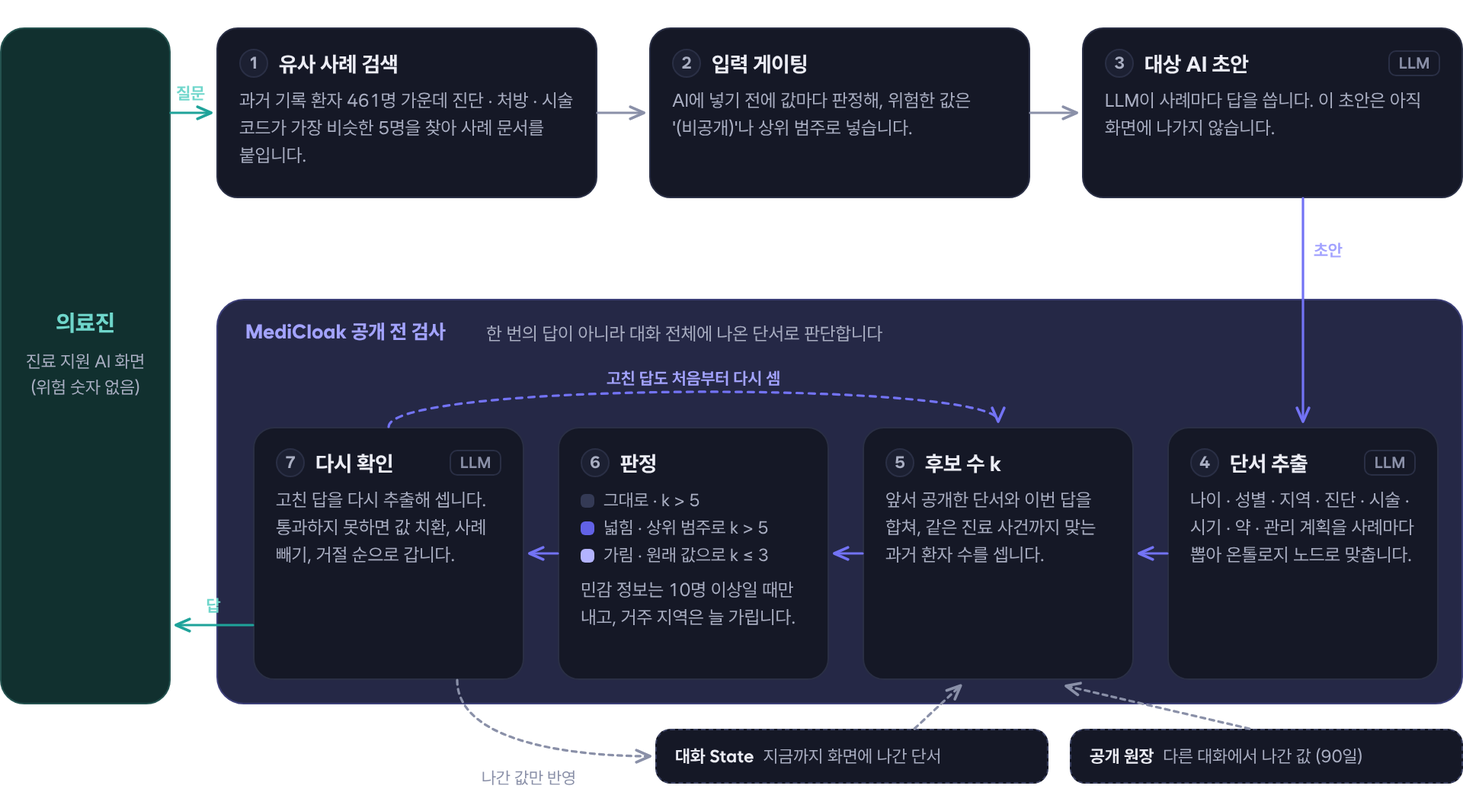
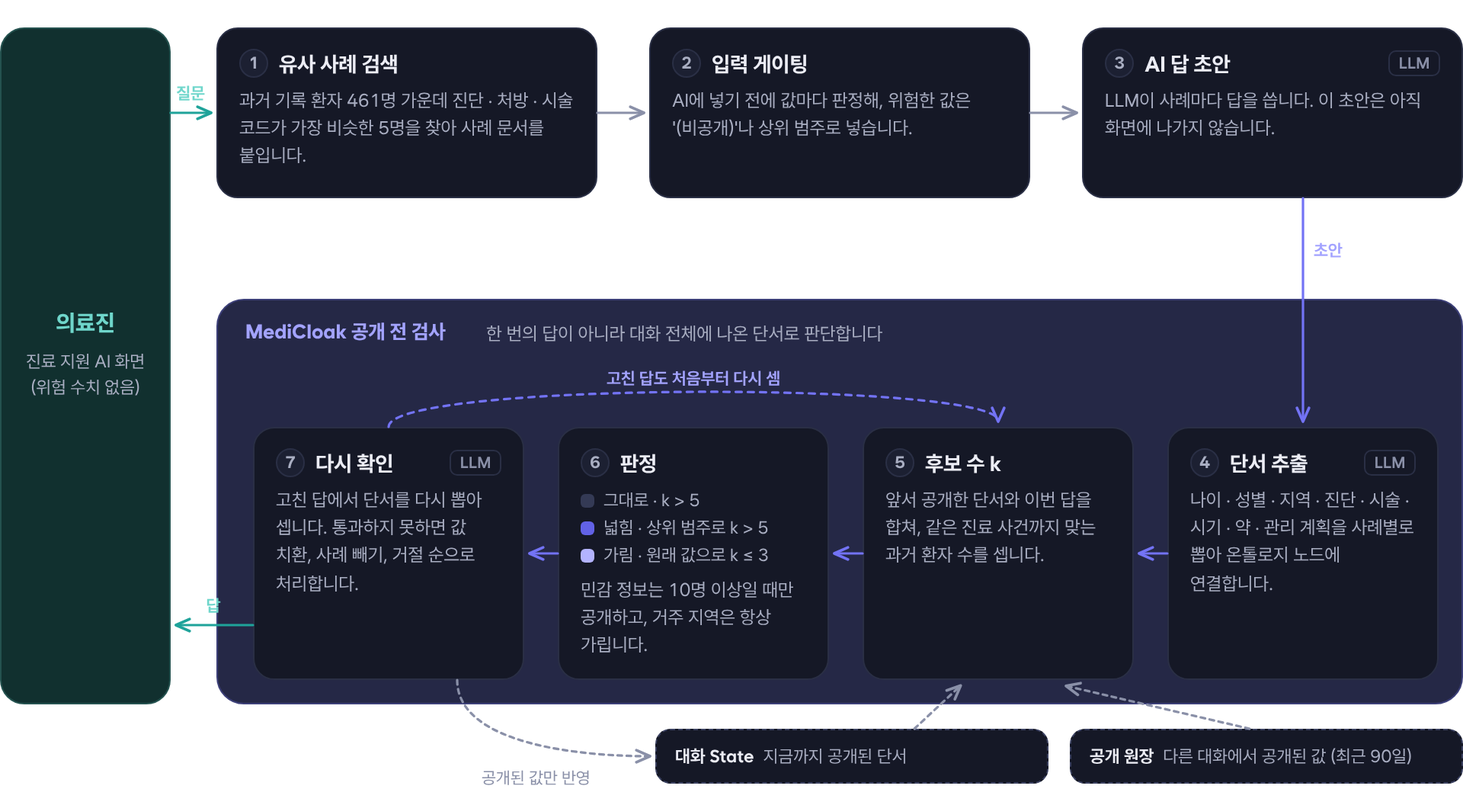
DOCS#N: README와 그림 속 문장 다듬기 (번역투 · 구어체 · 설명 없는 내부 용어)
제출용 첫 화면에서 어색하게 읽히던 문장을 고쳤습니다. 숫자와 사실은 바꾸지 않았습니다.

- 번역투: '98.5%의 환자가' → '환자의 98.5%가', '답마다의' → '각 답의' · '답별',
  '짝 검정(exact McNemar)' → 'McNemar 정확 검정'
- 구어체: '알려 줘도' · '돌려' · '켜면' · '돌고' · '센 값' · '세니' · '냈다면' · '지금 걸린'을
  '공개해도' · '실행해' · '서버를 시작하면' · '집계한 값' · '다시 집계하면' · '공개했다면' · '현재 적용 중인'으로
- 설명 없던 내부 용어: '갈래' → '방어 방식', '하네스' → '실험 코드(연구 하네스)', '나간 값' → '공개된 값',
  '위험 숫자' → '위험 수치', '대상 AI 초안' → 'AI 답 초안', '팀 고정본 채점' → '팀이 고정한 채점 코드'.
  '질의 환자'와 '입력 게이팅'은 처음 나올 때 괄호로 설명
- 맥락이 어색했던 문장: '사람이 열어 줄 길을 둡니다' → '꼭 필요한 값은 사람이 승인해 공개합니다',
  '사례 5건에 묻습니다' → '사례 5건에 대해 질문합니다',
  'RAG의 답 전달 단계에 들어갑니다' → 'RAG가 답을 내보내는 단계에 추가해 쓰는 방식입니다'
- 머리글: 어떻게 막나 → 동작 방식, 기능 → 주요 기능, 실행 → 실행 방법, 문서 → 관련 문서
- 그림 속 문구도 같은 기준으로 고쳐 다시 그림: banner, social-preview, flow, arch, results, ontology
  (밝은 화면 · 어두운 화면 두 벌)
- docs/README.md의 '하네스' 표기 두 곳 정리

Claude-Session: https://claude.ai/code/session_01J5RXHyY7Av7VSHZ3RBymGy

diff --git a/README.md b/README.md
@@ -13,8 +13,8 @@
 </p>
 
 <p align="center">
-  <b>사례 검색 → 대상 AI 초안 → 단서 추출 → 누적 후보 수 계산 → 넓히거나 가림 → 다시 확인 → 화면</b><br>
-  병원 진료 지원 AI의 답이 과거 환자를 드러내지 않도록, 답이 나가기 직전에 검사하는 개인정보 보호 계층
+  <b>사례 검색 → AI 답 초안 → 단서 추출 → 누적 후보 수 계산 → 넓히거나 가림 → 다시 확인 → 화면</b><br>
+  병원 진료 지원 AI가 과거 환자를 드러내지 않도록, 답이 화면에 나가기 직전에 검사하는 개인정보 보호 계층
 </p>
 
 > KISIA AI 보안 기술개발 개인정보반(2026.8.17 ~ 11.6) 팀 프로젝트 · **Team Zero PII**
@@ -23,13 +23,13 @@
 
 ## 만들게 된 계기
 
-병원의 진료 지원 AI는 의료진이 "지금 환자와 비슷한 과거 사례"를 대화로 찾아보게 해 줍니다. 답에서 이름과 등록번호를 지워도, 질문이 이어지면 진단 · 처방 약 · 처방 시작일 · 나이 · 거주 지역이 한 사람에 대한 단서로 쌓입니다. 이 프로젝트의 기준 집단(합성 환자 461명)으로 세어 보면, 정확한 날짜 하나만 알려 줘도 98.5%의 환자가 후보 5명 미만으로 좁혀집니다.
+병원의 진료 지원 AI를 쓰면 의료진은 "지금 환자와 비슷한 과거 사례"를 대화로 찾아볼 수 있습니다. 답에서 이름과 등록번호를 지워도 질문이 이어지면 진단, 처방 약, 처방 시작일, 나이, 거주 지역 같은 단서가 한 사람에 대해 쌓입니다. 이 프로젝트의 기준 집단(합성 환자 461명)으로 계산해 보면 정확한 날짜 하나만 공개해도 환자의 98.5%가 후보 5명 미만으로 좁혀집니다.
 
-답 하나하나를 따로 검사해서는 이렇게 쌓이는 위험을 막지 못합니다. **MediCloak**은 답이 화면에 나가기 전에 대화 전체에서 나온 단서를 사례마다 모아, 조건이 같은 과거 환자가 몇 명 남는지(k) 셉니다. 5명 아래로 좁혀지는 값만 의료 온톨로지의 상위 범주로 넓히거나 가리고, 나머지는 그대로 답합니다. 모델을 다시 학습시키거나 원본 기록을 고치지 않고, RAG의 답 전달 단계에 들어갑니다.
+답을 하나씩 따로 검사해서는 이렇게 쌓이는 위험을 막을 수 없습니다. **MediCloak**은 답이 화면에 나가기 전에 대화 전체에 나온 단서를 사례별로 모아, 조건을 모두 만족하는 과거 환자가 몇 명 남는지(k)를 셉니다. 그리고 후보를 5명 아래로 좁히는 값만 의료 온톨로지의 상위 범주로 넓히거나 가리고, 나머지는 그대로 답합니다. 모델 재학습이나 원본 기록 수정 없이, RAG가 답을 내보내는 단계에 추가해 쓰는 방식입니다.
 
 <p align="center">
   <img src="docs/images/clinic-flow.gif" alt="의료진이 사례 1의 약과 시작 시기를 묻자 시작 시기만 비공개로 표시되는 장면" width="760">
-  <br><sub>▲ 의료진이 사례 1의 약과 시작 시기를 묻자 시작 시기만 '비공개'로 나가고, '왜 그런가요?'에 그 이유가 나옵니다</sub>
+  <br><sub>▲ 의료진이 사례 1의 약과 시작 시기를 묻자 시작 시기만 '비공개'로 표시되고, '왜 그런가요?'를 누르면 이유가 나옵니다</sub>
 </p>
 
 ---
@@ -42,49 +42,49 @@
 <td width="50%"><a href="docs/images/screen-monitor.png"><img src="docs/images/screen-monitor.png" alt="보안 담당자 실시간 관제 화면"></a></td>
 </tr>
 <tr>
-<td><b>의료진 · 유사 사례 조회</b><br>비슷한 과거 사례 5건에 묻습니다. 환자를 알아볼 수 있는 값은 '비공개'나 범위로 보이고, 위험 숫자는 보이지 않습니다.</td>
-<td><b>보안 담당자 · 실시간 관제</b><br>같은 대화를 숫자와 함께 봅니다. 그대로 냈다면 후보가 1명이었을 답을 157명으로 지킨 기록과 의료진 요청이 올라옵니다.</td>
+<td><b>의료진 · 유사 사례 조회</b><br>비슷한 과거 사례 5건에 대해 질문합니다. 환자를 알아볼 수 있는 값은 '비공개'나 범위로 표시하고, 후보 수 같은 위험 수치는 보여 주지 않습니다.</td>
+<td><b>보안 담당자 · 실시간 관제</b><br>같은 대화를 후보 수와 함께 봅니다. 그대로 공개했다면 후보가 1명으로 좁혀졌을 답을 가려 157명을 유지한 기록과 의료진의 요청이 올라옵니다.</td>
 </tr>
 <tr>
 <td><a href="docs/images/screen-watch.png"><img src="docs/images/screen-watch.png" alt="의료진 대화 위험 분석 화면"></a></td>
 <td><a href="docs/images/screen-report.png"><img src="docs/images/screen-report.png" alt="레드팀 점검 리포트 화면"></a></td>
 </tr>
 <tr>
-<td><b>의료진 대화 위험 분석</b><br>사례마다 후보가 단서별로 줄어든 과정(461 → 189 → 157)과 답마다의 판정 근거를 봅니다.</td>
-<td><b>레드팀 점검 리포트</b><br>방어 없음 · 턴별 방어 · 누적 방어로 같은 공격 대화를 돌려, 기준 아래로 내려간 대화와 답변 유용도를 비교합니다.</td>
+<td><b>의료진 대화 위험 분석</b><br>단서가 더해질 때마다 후보가 줄어든 과정(461 → 189 → 157명)과 각 답의 판정 근거를 봅니다.</td>
+<td><b>레드팀 점검 리포트</b><br>같은 공격 대화를 세 가지 방어 방식(방어 없음, 턴별 방어, 누적 방어)으로 실행해, 후보가 기준 아래로 내려간 대화 수와 답변 유용도를 비교합니다.</td>
 </tr>
 </table>
 
-<sub>화면은 API 키 없이 시연용 응답기로 켠 운영 모드에서 찍었고, 공개 전 검사가 보이도록 입력 게이팅은 껐습니다. 리포트 화면의 기준 평가는 10턴까지 센 값이라 아래 검증 결과(8턴)와 숫자가 조금 다릅니다.</sub>
+<sub>화면은 실제 LLM 대신 시연용 응답기를 연결한 운영 모드에서 캡처했습니다. 공개 전 검사가 잘 보이도록 입력 게이팅(사례 기록을 AI에 넣기 전에 값을 가리는 단계)은 끈 상태입니다. 리포트 화면의 기준 평가는 10턴까지 집계한 값이라 아래 검증 결과(8턴)와 수치가 조금 다릅니다.</sub>
 
 ---
 
-## 어떻게 막나
+## 동작 방식
 
 <picture>
   <source media="(prefers-color-scheme: dark)" srcset="docs/images/flow-dark.png">
-  <img src="docs/images/flow-light.png" alt="질문부터 화면까지 답 하나가 나가는 7단계: 유사 사례 검색, 입력 게이팅, 대상 AI 초안, 단서 추출, 후보 수 k, 판정, 다시 확인" width="100%">
+  <img src="docs/images/flow-light.png" alt="질문부터 화면까지 답 하나가 나가는 7단계: 유사 사례 검색, 입력 게이팅, AI 답 초안, 단서 추출, 후보 수 k, 판정, 다시 확인" width="100%">
 </picture>
 
-- **대화 전체로 셉니다.** 이번 답의 단서에 같은 대화에서 앞서 나간 값, 같은 과거 환자에 대해 다른 대화에서 나간 값(최근 90일)까지 합쳐 판정합니다.
-- **필요한 만큼만 바꿉니다.** 기준은 후보 5명입니다. 새 단서를 모두 더해도 5명보다 많으면 그대로 내고, 아니면 [의료 온톨로지](#의료-온톨로지)의 상위 노드로 넓히거나 가립니다. 나이는 5세 구간, 날짜는 월보다 자세히 내지 않습니다.
-- **고친 답도 다시 셉니다.** 재작성한 답을 다시 추출해 처음부터 셉니다. 통과하지 못하면 값 치환, 사례 빼기, 거절 순으로 넘어갑니다.
-- **사람이 열어 줄 길을 둡니다.** 진료에 꼭 필요한 값은 의료진이 세부 정보 요청을 보내고, 보안 담당자가 함께 공개했을 때의 후보 수를 확인한 뒤 승인합니다. 열람 · 승인 · 규칙은 사유와 함께 감사 기록에 남습니다.
+- **대화 전체를 합쳐서 셉니다.** 이번 답의 단서에, 같은 대화에서 이미 공개된 값과 같은 과거 환자에 대해 다른 대화에서 공개된 값(최근 90일)까지 더해 판정합니다.
+- **필요한 만큼만 바꿉니다.** 기준은 후보 5명입니다. 새 단서를 모두 더해도 후보가 5명보다 많으면 그대로 공개하고, 그렇지 않으면 [의료 온톨로지](#의료-온톨로지)의 상위 노드로 넓히거나 가립니다. 나이는 5세 구간, 날짜는 월 단위보다 자세히 공개하지 않습니다.
+- **고친 답도 처음부터 다시 셉니다.** 재작성한 답에서 단서를 다시 뽑아 후보 수를 확인하고, 그래도 통과하지 못하면 값 치환, 해당 사례 빼기, 답변 거절 순으로 처리합니다.
+- **꼭 필요한 값은 사람이 승인해 공개합니다.** 의료진이 세부 정보 요청을 보내면, 보안 담당자가 그 값을 함께 공개했을 때의 후보 수를 확인한 뒤 승인합니다. 원문 열람, 공개 승인, 규칙 적용은 사유와 함께 감사 기록에 남습니다.
 
 ---
 
 ## 의료 온톨로지
 
-MediCloak은 답에 나온 말을 글자 그대로 세지 않고, 팀이 만든 의료 온톨로지(`data/medical/`, v0.10)의 노드로 바꾼 뒤 셉니다. Synthea 합성 환자 576명의 기록을 SNOMED CT · ICD-10-CM · RxNorm · ATC 같은 표준 코드 계층에 올려 단서 8종을 노드 71,692개로 만들었고, 진료 사건 51,759건마다 진단 · 약 · 시술 코드와 날짜 · 나이 · 성별 · 지역 노드를 이어 두었습니다(사건연결표).
+MediCloak은 답에 나온 표현을 글자 그대로 비교하지 않고, 팀이 구축한 의료 온톨로지(`data/medical/`, v0.10)의 노드로 바꾼 뒤 후보 수를 셉니다. Synthea 합성 환자 576명의 기록을 SNOMED CT, ICD-10-CM, RxNorm, ATC 같은 표준 코드 체계의 계층에 맞춰 단서 8종, 노드 71,692개로 정리했습니다. 진료 사건 51,759건에는 각각 진단 · 약 · 시술 코드와 날짜 · 나이 · 성별 · 지역 노드를 연결해 두었습니다(사건연결표).
 
 <picture>
   <source media="(prefers-color-scheme: dark)" srcset="docs/images/ontology-dark.png">
   <img src="docs/images/ontology-light.png" alt="diphenhydramine 25 mg 정을 RxNorm, 제형, ATC 5단계, 4단계로 올려도 후보 4명이고, ATC 3단계 R06A 전신용 항히스타민제에서 27명이 되어 멈추는 실제 판정" width="100%">
 </picture>
 
-- **같은 말을 같은 노드로.** 답에 나온 표현을 표현-노드 매핑표(3,825개)와 날짜 · 나이 규칙으로 노드에 잇습니다. 'Lynn, MA'와 'Lynn, Massachusetts', '2014년 4월 1일'과 '2014-04-01'이 같은 노드가 됩니다. 노드에 잇지 못한 표현은 후보 수에 들어가지 않아 위험을 놓치게 되므로, 원본 대조로 찾은 날짜 누락도 이 단계에서 고쳤습니다(판정 규칙 v8).
-- **같은 진료 사건으로 묶어 세기.** 후보 수 계산(kcalc)은 노드 조건을 사건연결표에 대어 봅니다. 진단과 그 진단 당시의 나이 · 날짜는 한 사건이 함께 만족해야 후보로 남습니다. 환자 한 명에게 진단이 평균 8.8개, 처방이 6.8개 있어서 값을 따로 맞추면 후보가 부풀려집니다. 576명 전체에서 '당뇨병 + 60대'를 따로 세면 25명, 사건으로 묶어 세면 4명입니다.
-- **필요한 만큼만 넓히기.** 위험한 값은 부모 노드로 한 단계씩 올리며 다시 세고, 후보가 처음으로 5명을 넘는 단계에서 멈춥니다. 넓힌 노드는 그 아래 노드를 가진 환자를 모두 후보로 셉니다. 위 그림의 약은 네 단계를 올라 'R06A 전신용 항히스타민제'(27명)로 나갔고, 그보다 넓은 'R 호흡기계 약'까지는 올리지 않았습니다. 원래 값으로 후보가 3명 이하이면 넓히지 않고 가립니다.
+- **같은 뜻의 표현을 같은 노드로.** 답에 나온 표현을 표현-노드 매핑표(3,825개)와 날짜 · 나이 규칙으로 노드에 연결합니다. 'Lynn, MA'와 'Lynn, Massachusetts', '2014년 4월 1일'과 '2014-04-01'은 같은 노드가 됩니다. 노드에 연결하지 못한 표현은 후보 수 계산에서 빠져 위험을 놓치게 됩니다. 원본 기록과 대조하는 검증에서 날짜가 이렇게 빠지는 경우를 찾아 판정 규칙 v8에서 고쳤습니다.
+- **같은 진료 사건으로 묶어 세기.** 후보 수 계산기(kcalc)는 노드 조건을 사건연결표와 대조합니다. 진단과 그 진단 당시의 나이, 날짜는 한 사건이 함께 만족해야 후보로 남습니다. 환자 한 명에게 진단이 평균 8.8개, 처방이 6.8개 있어 값을 따로 맞추면 후보가 부풀려집니다. 576명 전체에서 '당뇨병 + 60대'를 따로 세면 25명, 사건으로 묶어 세면 4명입니다.
+- **필요한 만큼만 넓히기.** 위험한 값은 부모 노드로 한 단계씩 올리며 후보 수를 다시 세고, 처음으로 5명을 넘는 단계에서 멈춥니다. 넓힌 노드는 그 아래 노드를 가진 환자를 모두 후보로 셉니다. 위 그림의 약은 네 단계를 올라간 'R06A 전신용 항히스타민제'(27명)로 공개됐고, 그보다 넓은 'R 호흡기계 약'까지는 올리지 않았습니다. 원래 값으로 후보가 3명 이하이면 넓히지 않고 가립니다.
 
 | 단서 | 계층 (왼쪽이 가장 자세함) | 노드 |
 | --- | --- | ---: |
@@ -97,23 +97,23 @@ MediCloak은 답에 나온 말을 글자 그대로 세지 않고, 팀이 만든 
 | 지역 | 도시 → 주 | 190 |
 | 성별 | 남 · 여 | 3 |
 
-모든 계층의 맨 위는 '조건 없음'입니다. SynthPAI 단계에서 쓰던 준식별정보 8종 온톨로지(`ontology/`)는 [docs/ontology.md](docs/ontology.md)에 있습니다.
+모든 계층의 맨 위는 '조건 없음'입니다. SynthPAI 단계에서 쓰던 준식별정보 8종 온톨로지(`ontology/`)는 [docs/ontology.md](docs/ontology.md)에 정리되어 있습니다.
 
 ---
 
-## 기능
+## 주요 기능
 
 **의료진** · 진료 지원 AI
 
-- **[외래 진료 목록](docs/images/screen-emr.png)**: 가상 EMR(FHIR R4)에서 외래 환자와 진료 목적(처방 · 시술·치료 · 경과·관리)을 골라 진료 지원 AI를 엽니다. 목록에는 생년과 거주 지역이 없습니다.
-- **[유사 사례 조회](docs/images/screen-clinic.png)**: 사례별 대화, 찾은 사례 전체에 묻기, 답에 실제로 나온 값만 모으는 사례 노트, 보내기 전 확인, '왜 그런가요?', 세부 정보 요청
+- **[외래 진료 목록](docs/images/screen-emr.png)**: 가상 EMR(FHIR R4)에서 외래 환자와 진료 목적(처방, 시술·치료, 경과·관리)을 골라 진료 지원 AI를 엽니다. 목록에는 생년과 거주 지역을 표시하지 않습니다.
+- **[유사 사례 조회](docs/images/screen-clinic.png)**: 사례별 대화, 검색된 사례 전체에 대한 질문, 답에 실제로 나온 값만 모은 사례 노트, 보내기 전 확인, 가린 이유 설명('왜 그런가요?'), 세부 정보 요청
 
 **보안 담당자** · MediCloak 관제
 
-- **[실시간 관제](docs/images/screen-monitor.png)**: 세 줄 요약(위험했던 것 · 시스템이 한 일 · 내가 할 일), 방어 방식별 후보 수 눈금, 사유를 적는 원문 열람, 값 공개 승인, 대화별 규칙, 검토 보조 초안
-- **[의료진 대화 분석](docs/images/screen-watch.png) · [단서 그래프](docs/images/screen-graph.png)**: 후보가 단서마다 줄어든 과정, 답마다의 판정 표(그대로였다면 몇 명이었는지), 사례와 단서의 연결
-- **[레드팀 리포트](docs/images/screen-report.png)**: 실제 LLM으로 공격 대화를 돌려 방어 방식별로 비교합니다. 모델이나 판정 규칙이 바뀐 채로 서버를 켜면 점검이 자동으로 돌고 직전 결과와 비교합니다.
-- **[감사 기록](docs/images/screen-audit.png) · [보호 정책](docs/images/screen-policy.png)**: 로그인 · EMR 열기 · 질문 · 열람 · 승인 · 규칙 · 레드팀 기록, 지금 걸린 판정 기준과 보호 설정
+- **[실시간 관제](docs/images/screen-monitor.png)**: 세 줄 요약(위험했던 것, 시스템이 한 일, 담당자가 할 일), 방어 방식별 후보 수 눈금, 사유를 남기는 원문 열람, 값 공개 승인, 대화별 규칙, 검토 보조 에이전트의 초안
+- **[의료진 대화 분석](docs/images/screen-watch.png) · [단서 그래프](docs/images/screen-graph.png)**: 단서별로 후보가 줄어든 과정, 답별 판정 표(가리지 않았다면 후보가 몇 명이었는지), 사례와 단서의 연결
+- **[레드팀 리포트](docs/images/screen-report.png)**: 실제 LLM으로 공격 대화를 실행해 방어 방식별 결과를 비교합니다. 모델이나 판정 규칙이 바뀐 상태로 서버를 시작하면 점검을 자동으로 실행하고 직전 결과와 비교합니다.
+- **[감사 기록](docs/images/screen-audit.png) · [보호 정책](docs/images/screen-policy.png)**: 로그인, EMR 열기, 질문, 열람, 승인, 규칙, 레드팀 기록과 현재 적용 중인 판정 기준 · 보호 설정
 
 ---
 
@@ -121,12 +121,12 @@ MediCloak은 답에 나온 말을 글자 그대로 세지 않고, 팀이 만든 
 
 <picture>
   <source media="(prefers-color-scheme: dark)" srcset="docs/images/arch-dark.png">
-  <img src="docs/images/arch-light.png" alt="의료진 화면과 보안 담당자 관제가 FastAPI 서버에 붙고, 서버는 SQLite · FHIR · 사례 문서 · LLM을 쓰며 판정은 연구 하네스 코드를 그대로 쓰는 구성" width="100%">
+  <img src="docs/images/arch-light.png" alt="의료진 화면과 보안 담당자 관제가 FastAPI 서버에 연결되고, 서버는 SQLite · FHIR · 사례 문서 · LLM을 사용하며 판정은 실험 코드(medical/)를 그대로 쓰는 구성" width="100%">
 </picture>
 
-- 화면 두 개(의료진, 보안 담당자)와 서버 하나로 이루어집니다. 역할은 로그인 계정으로 나뉘고, 의료진 화면 API로는 후보 수 같은 위험 숫자를 보내지 않습니다.
-- 서버의 판정은 연구 하네스(`medical/`)의 후보 수 계산(kcalc)과 Defender를 그대로 불러 씁니다. 실험에서 잰 방어와 화면에서 도는 방어가 같은 코드입니다.
-- 데이터는 Synthea 합성 환자 576명입니다. 461명은 과거 기록(검색 대상이자 기준 집단)으로, 나머지는 외래 환자로 씁니다. 실제 환자 정보는 없습니다.
+- 화면 두 개(의료진, 보안 담당자)와 서버 하나로 구성됩니다. 역할은 로그인 계정으로 나뉘며, 의료진 화면 API에는 후보 수 같은 위험 수치를 보내지 않습니다.
+- 서버의 판정은 실험 코드(연구 하네스, `medical/`)의 후보 수 계산(kcalc)과 Defender를 그대로 사용합니다. 실험에서 측정한 방어와 실제 화면에서 동작하는 방어가 같은 코드입니다.
+- 데이터는 Synthea 합성 환자 576명입니다. 461명은 과거 기록(검색 대상이자 기준 집단)으로, 나머지는 외래 환자로 사용합니다. 실제 환자 정보는 포함되어 있지 않습니다.
 
 ---
 
@@ -134,19 +134,19 @@ MediCloak은 답에 나온 말을 글자 그대로 세지 않고, 팀이 만든 
 
 <picture>
   <source media="(prefers-color-scheme: dark)" srcset="docs/images/results-dark.png">
-  <img src="docs/images/results-light.png" alt="공격 대화 296건에서 방어 없음 95.6%, 턴별 방어 83.1%, 누적 방어 0%가 기준 아래로 좁혀졌고, 누적 방어는 의료정보 87.2%를 그대로 냈다" width="100%">
+  <img src="docs/images/results-light.png" alt="공격 대화 296건 중 기준 아래로 좁혀진 비율은 방어 없음 95.6%, 턴별 방어 83.1%, 누적 방어 0%이고, 누적 방어는 의료정보 87.2%를 그대로 공개함" width="100%">
 </picture>
 
 | 측정 | 조건 | 결과 |
 | --- | --- | --- |
-| 기준 아래로 좁혀진 대화 | 모의 POC, 공격 대화 296건 × 3갈래, 8턴, 결정적 응답기 | 방어 없음 95.6% · 턴별 방어 83.1% · **누적 방어 0%**. 방어 없음과 누적 방어의 짝 검정(exact McNemar) 283 : 0 |
-| 누적 방어의 정보 유지 | 같은 실행의 판정 8,840건 | 의료정보는 87.2%를 그대로 냈고, 개인정보는 34.9%를 가렸습니다(시기는 70.3%). 공개 단서 유지율 0.65 |
-| 단서 추출 정확도 | 규칙을 고정한 뒤 처음 보는 질의 환자 13명, claude-haiku-4.5, 팀 고정본 채점 | 정밀도 97.0% · 재현율 89.2% · F1 0.929 |
-| 실제 LLM 소규모 측정 | 질의 환자 6명, 8턴, claude-haiku-4.5 | 방어 없음 5/6, 누적 방어 0/6(시스템 판정). 원본 사실표와 대조해 다시 세니 누적 방어 2/6이었습니다. 날짜 단서가 정규화되지 않아 위험으로 세어지지 않은 것이 원인이었고, 판정 규칙 v8에서 고쳤습니다([ADR-0033](docs/adr/0033-rag-remeasure-tooling-and-period-value-fix.md)) |
-| 처리 시간 | 같은 실측, 턴 1 이후 평균 | 방어 없음 12.4초 · 누적 방어 19.4초. 늘어난 시간은 대부분 재작성과 다시 확인 추출입니다 |
+| 기준 아래로 좁혀진 대화 | 모의 POC(기록대로 답하는 결정적 응답기), 공격 대화 296건 × 방어 방식 3가지, 8턴 | 방어 없음 95.6% · 턴별 방어 83.1% · **누적 방어 0%**. 방어 없음 대 누적 방어의 McNemar 정확 검정 불일치 쌍 283 : 0 |
+| 누적 방어의 정보 유지 | 같은 실행의 판정 8,840건 | 의료정보는 87.2%를 그대로 공개했고, 개인정보는 34.9%를 가렸습니다(시기는 70.3%). 공개 단서 유지율 0.65 |
+| 단서 추출 정확도 | 규칙 개발에 쓰지 않은 질의 환자(진료 중인 환자 역할) 13명, claude-haiku-4.5, 팀이 고정한 채점 코드 | 정밀도 97.0% · 재현율 89.2% · F1 0.929 |
+| 실제 LLM 소규모 측정 | 질의 환자 6명, 8턴, claude-haiku-4.5 | 시스템 판정으로는 방어 없음 5/6, 누적 방어 0/6이었습니다. 원본 사실표와 대조해 다시 집계하면 누적 방어는 2/6이었고, 날짜 단서가 노드로 정규화되지 않아 후보 수에 반영되지 않은 것이 원인이었습니다. 판정 규칙 v8에서 수정했습니다([ADR-0033](docs/adr/0033-rag-remeasure-tooling-and-period-value-fix.md)) |
+| 처리 시간 | 같은 실측, 턴 1 이후 평균 | 방어 없음 12.4초 · 누적 방어 19.4초. 늘어난 시간의 대부분은 재작성과 재확인 추출입니다 |
 
 <details>
-<summary>다시 세는 명령 (LLM 호출 없음)</summary>
+<summary>결과를 다시 계산하는 명령 (LLM 호출 없음)</summary>
 
 ```bash
 python -m medical.simulate --out runs/medical/sim_staged --profile staged --fuzzer uniform   # 모의 POC, 약 30분
@@ -156,31 +156,31 @@ python scripts/verify_result3.py runs/medical/sim_staged                        
 단서 추출 정확도의 기록과 채점 방법은 [medical/scoring/결과_기록.md](medical/scoring/결과_기록.md)에 있습니다.
 </details>
 
-**읽을 때 알아 둘 점**
+**해석할 때 유의할 점**
 
-- k는 고정된 기준 집단(461명) 안에서 후보가 몇 명 남는지입니다. 실제 신원 확인 여부나 법적 안전성을 보장하는 값이 아닙니다.
+- k는 고정된 기준 집단(461명) 안에서 조건을 만족하는 후보 수입니다. 실제로 신원이 확인되는지나 법적 안전성을 보장하는 값은 아닙니다.
 - 데이터는 한 주(Massachusetts)의 합성 환자이고, 실제 LLM 측정은 6명 규모입니다.
-- 후보 전원이 같은 값을 가지면 그 값은 알려질 수 있습니다(동질성). k로는 막지 못하는 부분입니다.
+- 후보 전원이 같은 값을 가지면 누구인지 몰라도 그 값은 알려질 수 있습니다(동질성 문제). k만으로는 막지 못하는 부분입니다.
 
 ---
 
 ## 보안 설계
 
-- **역할 분리.** 의료진과 보안 담당자는 서로의 API를 쓰지 못합니다. 미들웨어와 경로별 검사 두 곳에서 확인하고, 로그인 없이 부르면 401, 다른 역할의 경로는 403입니다.
-- **비밀번호와 세션.** 비밀번호는 PBKDF2-HMAC-SHA256 200,000회와 계정별 salt로 저장합니다. 세션 토큰은 HttpOnly 쿠키로 주고 DB에는 SHA-256만 둡니다. 12시간이 지나거나 60분 동안 쓰지 않으면 끝나고, 같은 계정 · 주소에서 10분에 5번 틀리면 막습니다.
-- **원문 열람.** 보안 담당자도 사유를 고르고 확인하려는 내용을 적어야 원 응답과 가린 값을 봅니다. 감사 기록과 관제 화면에는 환자 번호 대신 HMAC으로 만든 기호(`P-3f9a1c`)가 남습니다.
-- **과거 기록 환자.** 검색 대상 461명은 FHIR로 열 수 없고, 진료 지원 AI의 답과 MediCloak 판정을 거쳐서만 보입니다.
-- **민감 정보.** 물질 사용 · 정신 건강 · 생식 · HIV 관련 값은 후보가 10명 이상일 때만 내고, 미성년 시기 물질 사용 장애 환자는 검색 대상에서 뺍니다.
-- **답 시간 한도.** 45초 안에 확인을 마치지 못한 답은 내보내지 않고 안내 문장을 보냅니다.
-- **API 키.** `.env`에서만 읽고 화면 · 로그 · 감사 기록 · 오류 문구에 넣지 않습니다.
+- **역할 분리.** 의료진과 보안 담당자는 서로의 API를 쓸 수 없습니다. 미들웨어와 경로별 검사 두 곳에서 확인하며, 로그인 없이 호출하면 401, 다른 역할의 경로는 403을 돌려줍니다.
+- **비밀번호와 세션.** 비밀번호는 PBKDF2-HMAC-SHA256(200,000회 반복, 계정별 salt)으로 해시해 저장합니다. 세션 토큰은 HttpOnly 쿠키로 발급하고 DB에는 SHA-256 해시만 둡니다. 세션은 12시간이 지나거나 60분 동안 쓰지 않으면 만료되고, 같은 계정 · IP에서 10분 안에 5번 틀리면 로그인을 막습니다.
+- **원문 열람.** 보안 담당자도 열람 사유를 고르고 확인할 내용을 적어야 AI의 원래 답과 가린 값을 볼 수 있습니다. 감사 기록과 관제 화면에는 환자 번호 대신 HMAC으로 만든 가명 기호(`P-3f9a1c`)가 남습니다.
+- **과거 기록 환자.** 검색 대상 461명은 FHIR로 조회할 수 없고, 진료 지원 AI의 답과 MediCloak 판정을 거쳐서만 보입니다.
+- **민감 정보.** 물질 사용, 정신 건강, 생식, HIV 관련 값은 후보가 10명 이상일 때만 공개하고, 미성년 시기에 물질 사용 장애가 있던 환자는 검색 대상에서 제외합니다.
+- **답변 시간 한도.** 45초 안에 확인을 마치지 못한 답은 내보내지 않고 안내 문장으로 대신합니다.
+- **API 키.** `.env`에서만 읽으며 화면, 로그, 감사 기록, 오류 문구에 남기지 않습니다.
 
-자세한 동작과 운영할 때 정해야 할 것(외부 LLM으로 나가는 데이터, 승인 당직, 감사 기록 보관)은 [medicloak/README.md](medicloak/README.md)에 있습니다.
+자세한 동작과 실제 운영 시 정해야 할 사항(외부 LLM으로 전송되는 데이터, 승인 담당자 당직, 감사 기록 보관 기간)은 [medicloak/README.md](medicloak/README.md)에 있습니다.
 
 ---
 
-## 실행
+## 실행 방법
 
-Python 3.10 이상(3.11 · 3.13에서 확인)과 화면 빌드용 Node.js 18 이상이 필요합니다.
+Python 3.10 이상(3.11, 3.13에서 확인)과 화면 빌드용 Node.js 18 이상이 필요합니다.
 
 ```bash
 git clone https://github.com/ZEROPII/ZEROP_PII.git
@@ -192,18 +192,18 @@ pip install -r webdemo/requirements.txt
 **운영 모드** (로그인 · 가상 EMR · `.env`의 실제 LLM)
 
 ```bash
-cp .env.example .env                  # LLM_API_KEY · LLM_API_BASE · LLM_MODEL 채우기
-python -m medicloak init              # DB · 가상 EMR 576명 · 처음 계정 3개
-python -m medicloak check-llm         # 실제 LLM에 짧은 요청 한 번 (키 값은 출력하지 않음)
-python -m medicloak serve --build     # 화면 빌드 후 서버, http://127.0.0.1:8000
+cp .env.example .env                  # LLM_API_KEY · LLM_API_BASE · LLM_MODEL 입력
+python -m medicloak init              # DB · 가상 EMR 576명 · 초기 계정 3개 생성
+python -m medicloak check-llm         # LLM 연결 확인 (키 값은 출력하지 않음)
+python -m medicloak serve --build     # 화면 빌드 후 서버 실행, http://127.0.0.1:8000
 ```
 
-계정은 의료진 `doctor1` · `doctor2`, 보안 담당자 `privacy1`이고 비밀번호는 `runs/medicloak/initial_accounts.txt`에 적힙니다. 키 없이 같은 화면을 보려면 `python -m medicloak serve --llm oracle --build`(결정적 응답기), 로그인 없이 둘러보려면 `python -m webdemo --build`를 씁니다.
+계정은 의료진 `doctor1` · `doctor2`, 보안 담당자 `privacy1`이며 비밀번호는 `runs/medicloak/initial_accounts.txt`에 저장됩니다. API 키 없이 같은 화면을 보려면 `python -m medicloak serve --llm oracle --build`(결정적 응답기)를, 로그인 없는 데모는 `python -m webdemo --build`를 실행합니다.
 
 **테스트**
 
 ```bash
-python -m pytest -q                   # 976 passed, 3 skipped (LLM은 가짜 HTTP 세션)
+python -m pytest -q                   # 976 passed, 3 skipped (LLM 호출은 가짜 HTTP 세션으로 대체)
 cd frontend && npm test               # vitest 87 passed
 ```
 
@@ -216,8 +216,8 @@ ZEROP_PII/
 ├─ medicloak/              # 운영 모드 실행: init · serve · users · check-llm
 ├─ webdemo/backend/        # FastAPI 서버: 로그인 · 진료 대화 · 공개 전 검사 · 관제 · 레드팀
 ├─ frontend/               # React 화면: 진료 지원 AI(의료진) · MediCloak 관제(보안 담당자)
-├─ medical/                # 의료 시나리오 하네스: 문서 · 검색 · 대상 AI · 추출 · kcalc · Defender · 퍼저
-│  ├─ bundle/              # 팀 전달 고정본 (정규화 · 하네스 참조 구현 · 검증)
+├─ medical/                # 의료 시나리오 실험 코드: 문서 · 검색 · 대상 AI · 추출 · kcalc · Defender · 퍼저
+│  ├─ bundle/              # 팀에서 전달받은 고정본 (정규화 · 참조 구현 · 검증)
 │  ├─ scoring/             # 단서 추출 채점과 보류 검증
 │  └─ terminology.py       # 의료 용어 RAG (이유진)
 ├─ risk_defender/          # Privacy State · k 계산 · 판정 정책 (이유진)
@@ -225,18 +225,18 @@ ZEROP_PII/
 ├─ evaluation/             # 평가 지표 정의 · 통계 검정, eval-metrics (이정민)
 ├─ eval_demo/              # 평가 지표 22개 대시보드 (이정민)
 ├─ data/medical/           # 의료 온톨로지 노드 · 사건연결표 · 표현-노드 매핑표 · Seed Registry
-├─ core/                   # .env 설정 · LLM 호출 (모든 갈래가 같이 씀)
+├─ core/                   # .env 설정 · LLM 호출 (모든 모듈 공통)
 ├─ scripts/                # 측정 · RAG 재측정 · 결과 다시 세기 · ADR 도구
-├─ tests/                  # pytest 979개 (가짜 HTTP 세션으로 LLM 경로까지)
+├─ tests/                  # pytest 979개 (LLM 경로는 가짜 HTTP 세션으로 시험)
 └─ docs/                   # ADR 33건 · 의료 시나리오 · 평가 통합 문서 · README 그림
 ```
 
-SynthPAI(일반 게시글) 단계의 모듈(`target_llm/` · `qi_extractor/` · `normalizer/` · `attack/` · `ontology/` · `adapters/` · `orchestrator/` · `validation/` · `api_server/` · `analysis/` · `evaluation_v1/` · `risk_defender_synthpai/`)은 그대로 두었습니다. 의료로 옮기기 전 실험을 재현할 때 쓰며, 설명은 [docs/research_harness.md](docs/research_harness.md)에 있습니다. 평가 프로토타입(`eval/`과 루트의 `eval_baseline.py` · `log_schema.py` · `run_demo.py`)은 [docs/evaluation.md](docs/evaluation.md)를 보세요.
+SynthPAI(일반 게시글) 단계의 모듈(`target_llm/` · `qi_extractor/` · `normalizer/` · `attack/` · `ontology/` · `adapters/` · `orchestrator/` · `validation/` · `api_server/` · `analysis/` · `evaluation_v1/` · `risk_defender_synthpai/`)은 그대로 두었습니다. 의료 데이터로 전환하기 전의 실험을 재현할 때 사용하며, 설명은 [docs/research_harness.md](docs/research_harness.md)에 있습니다. 평가 프로토타입(`eval/`과 루트의 `eval_baseline.py` · `log_schema.py` · `run_demo.py`)은 [docs/evaluation.md](docs/evaluation.md)에 설명되어 있습니다.
 
-## 문서
+## 관련 문서
 
 - [medicloak/README.md](medicloak/README.md): 운영 모드의 옵션, 화면 흐름, API, 보안 동작, 운영 가이드
-- [docs/medical.md](docs/medical.md): 의료 시나리오 하네스와 기준 집단 사전 점검
+- [docs/medical.md](docs/medical.md): 의료 시나리오 실험 코드와 기준 집단 사전 점검
 - [docs/adr/](docs/adr/README.md): 설계 결정 기록 33건
 - [docs/evaluation.md](docs/evaluation.md): 평가 통합 문서(evaluation_proto · eval-metrics)
 - [docs/rag_remeasure/](docs/rag_remeasure/README.md): RAG 기준 재측정 도구와 원본 대조 검증기
@@ -250,7 +250,7 @@ SynthPAI(일반 게시글) 단계의 모듈(`target_llm/` · `qi_extractor/` · 
 
 | 이름 | 역할 | 맡은 일 |
 | --- | --- | --- |
-| 양승준 | System Integration · Development Lead | 대상 AI(RAG)와 단서 추출, 모듈 통합, MediCloak 서버와 화면, 실험 자동화 |
+| 양승준 | System Integration · Development Lead | RAG 기반 대상 AI와 단서 추출, 모듈 통합, MediCloak 서버와 화면, 실험 자동화 |
 | 한재이 | Privacy Fuzzing · Offensive Security Lead | 공격 시나리오, Seed와 변형, k 피드백 퍼저 |
 | 이유진 | Privacy Risk · Defense Lead | Privacy State와 k 계산, 판정 정책, 의료 용어 RAG |
 | 이정민 | Evaluation · Assurance Lead | 실험 설계, 평가 지표, 평가 대시보드 |

diff --git a/docs/README.md b/docs/README.md
@@ -5,11 +5,11 @@
 | 문서 | 내용 |
 | --- | --- |
 | [adr/](adr/README.md) | 설계 결정 기록(ADR) 33건. 기준 · 구조 · 실험 방식을 바꾼 결정마다 배경, 결정, 대안, 영향을 남겼습니다 |
-| [medical.md](medical.md) | 의료 시나리오 하네스(`python -m medical`): 한 trial의 흐름, Defender 정책, 기준 집단 사전 점검, 모의 POC |
+| [medical.md](medical.md) | 의료 시나리오 실험 코드(`python -m medical`): 한 trial의 흐름, Defender 정책, 기준 집단 사전 점검, 모의 POC |
 | [medical/](medical/) | 팀에서 받은 명세: 대상 AI 하네스 · 평가 명세, 추출 · 정규화 명세, 설계 보고서 발췌 |
 | [evaluation.md](evaluation.md) | 평가 통합 문서: `evaluation_proto`와 `eval-metrics`의 역할, 데이터 흐름, 지표 정의, 통계 처리 원칙 |
 | [rag_remeasure/](rag_remeasure/README.md) | RAG 기준 재측정 도구(R1~R6)와 원본 대조 검증기 사용법 |
-| [research_harness.md](research_harness.md) | 연구 하네스 상세: SynthPAI 단계의 실행 옵션, 정답 대조(k_val), 재실행, 다시 계산, 유용성 지표 |
+| [research_harness.md](research_harness.md) | 연구 하네스(실험 코드) 상세: SynthPAI 단계의 실행 옵션, 정답 대조(k_val), 재실행, 다시 계산, 유용성 지표 |
 | [modules.md](modules.md) | 모듈별 상세: Risk/Defender 정책, Threshold 선정 근거, 평가 로그 컬럼 |
 | [ontology.md](ontology.md) | SynthPAI 8개 QI 온톨로지 계층과 검토가 필요한 항목 |
 | [개발기록_의료전환.md](개발기록_의료전환.md) | SynthPAI에서 의료(Synthea)로 옮긴 과정의 개발 기록 |
